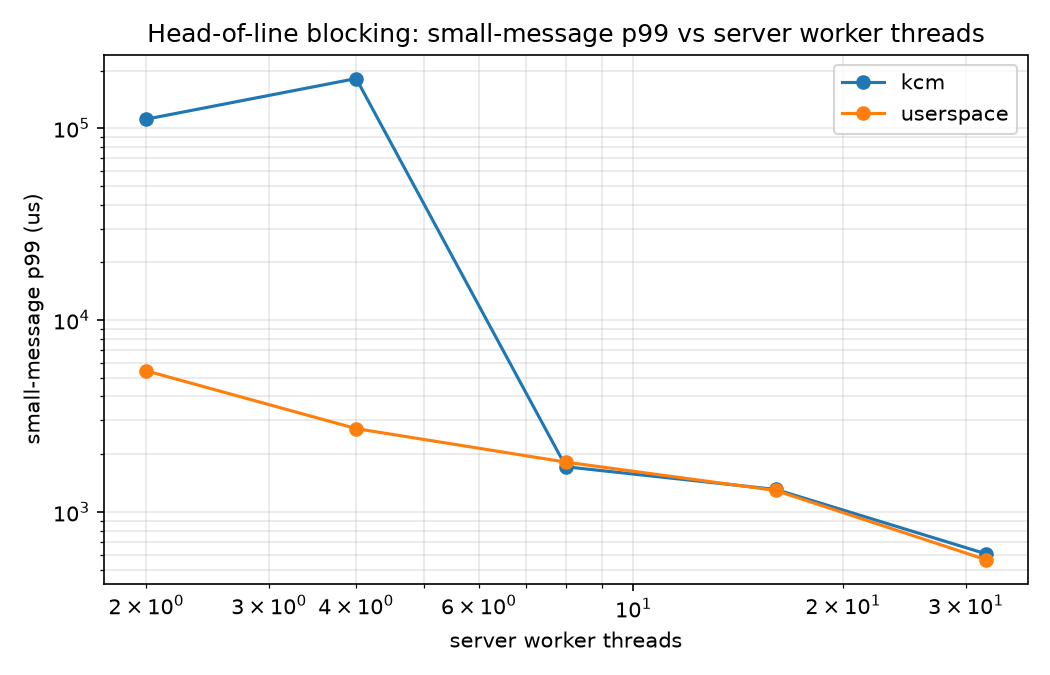
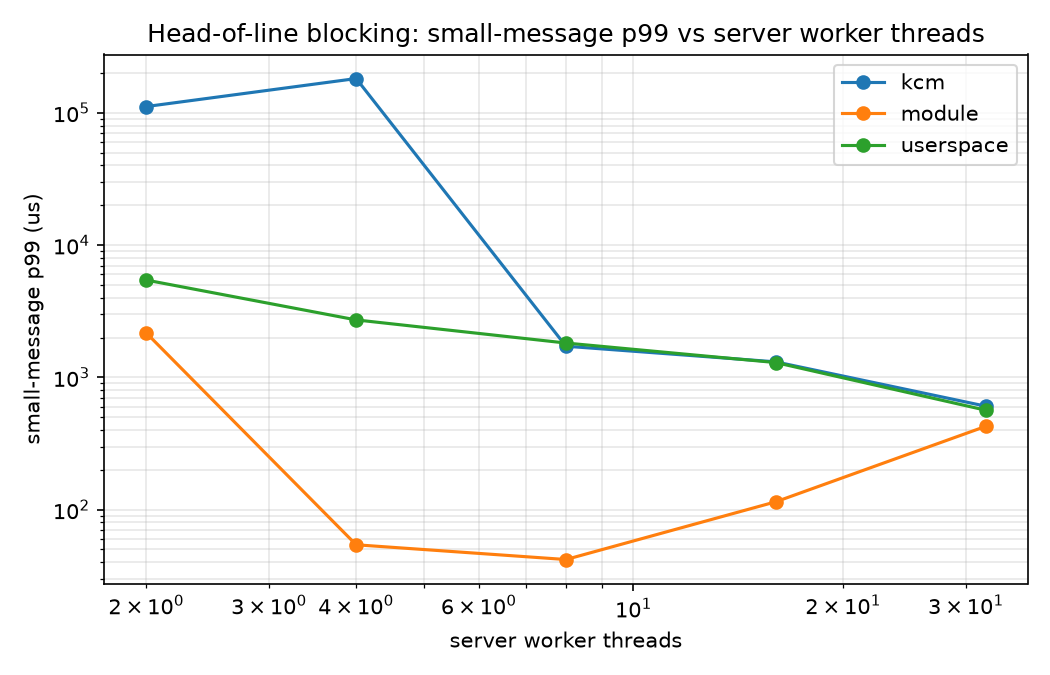
parse at the strparser message offset and reject desynced messages

diff --git a/module/kdispatch.c b/module/kdispatch.c
@@ -71,7 +71,7 @@ struct kd_dev {
 	struct list_head conns;
 	struct mutex attach_lock;   /* serialises attach/teardown */
 
-	u32 qlen, qmax, nconns, pauses, aborts;
+	u32 qlen, qmax, nconns, pauses, aborts, desync;
 	u64 msgs, bytes;
 	int opens;
 	bool draining;
@@ -85,15 +85,22 @@ static struct kd_dev kd;
  * Total message length lives in the first four bytes, big-endian. strparser
  * reads the return value as: >0 complete message length, 0 need more bytes,
  * <0 protocol error (which tears the connection down).
+ *
+ * Read at strp_msg(skb)->offset, not at zero. When several messages arrive
+ * coalesced -- which happens as soon as a backlog is buffered at attach time --
+ * strparser passes a head skb that still contains the preceding message, with
+ * this message starting at ->offset. Parsing at zero then decodes the previous
+ * header, and delivery (which does honour ->offset) disagrees with it.
  */
 static int kd_parse_msg(struct strparser *strp, struct sk_buff *skb)
 {
+	int offset = strp_msg(skb)->offset;
 	__be32 hdr;
 	u32 len;
 
-	if (skb->len < sizeof(hdr))
+	if (offset < 0 || skb->len < offset + (int)sizeof(hdr))
 		return 0;
-	if (skb_copy_bits(skb, 0, &hdr, sizeof(hdr)) < 0)
+	if (skb_copy_bits(skb, offset, &hdr, sizeof(hdr)) < 0)
 		return 0;
 
 	len = be32_to_cpu(hdr);
@@ -336,6 +343,33 @@ static ssize_t kd_read(struct file *file, char __user *ubuf, size_t count,
 	kd_maybe_unpause(dev);
 
 	stm = strp_msg(skb);
+
+	/* The four bytes we are about to deliver must be this message's own
+	 * length prefix. If they are not, the delivery offset and the offset
+	 * the parser read from have diverged, and userspace would decode a
+	 * header out of the middle of the stream.
+	 */
+	{
+		__be32 hdr;
+		u32 declared;
+
+		if (skb_copy_bits(skb, stm->offset, &hdr, sizeof(hdr)) < 0)
+			declared = 0;
+		else
+			declared = be32_to_cpu(hdr);
+
+		if (declared != (u32)stm->full_len) {
+			spin_lock_irqsave(&dev->lock, flags);
+			dev->desync++;
+			spin_unlock_irqrestore(&dev->lock, flags);
+			pr_warn_ratelimited(
+				"desync: prefix=%u full_len=%d offset=%d -- dropping\n",
+				declared, stm->full_len, stm->offset);
+			kfree_skb(skb);
+			return -EPROTO;
+		}
+	}
+
 	len = min_t(int, stm->full_len, (int)count);
 
 	err = import_ubuf(ITER_DEST, ubuf, len, &to);
@@ -375,6 +409,7 @@ static long kd_ioctl(struct file *file, unsigned int cmd, unsigned long arg)
 		st.conns = dev->nconns;
 		st.pauses = dev->pauses;
 		st.aborts = dev->aborts;
+		st.desync = dev->desync;
 		spin_unlock_irqrestore(&dev->lock, flags);
 		if (copy_to_user((void __user *)arg, &st, sizeof(st)))
 			return -EFAULT;
@@ -393,7 +428,22 @@ static long kd_ioctl(struct file *file, unsigned int cmd, unsigned long arg)
 static int kd_open(struct inode *inode, struct file *file)
 {
 	mutex_lock(&kd.attach_lock);
-	kd.opens++;
+	if (kd.opens++ == 0) {
+		/* First opener owns the device: start counters from zero so each
+		 * server run reports its own numbers rather than inheriting the
+		 * previous one's.
+		 */
+		unsigned long flags;
+
+		spin_lock_irqsave(&kd.lock, flags);
+		kd.msgs = 0;
+		kd.bytes = 0;
+		kd.qmax = 0;
+		kd.pauses = 0;
+		kd.aborts = 0;
+		kd.desync = 0;
+		spin_unlock_irqrestore(&kd.lock, flags);
+	}
 	kd.draining = false;
 	mutex_unlock(&kd.attach_lock);
 	return 0;

diff --git a/src/server_module.cpp b/src/server_module.cpp
@@ -95,6 +95,7 @@ void worker_loop(int devfd, WorkerStats* stats) {
         if (n == 0) break;                       // module draining
         if (n < 0) {
             if (errno == EINTR || errno == EAGAIN) continue;
+            if (errno == EPROTO) continue;   // module dropped a desynced message
             std::fprintf(stderr, "read: %s\n", std::strerror(errno));
             break;
         }
@@ -103,6 +104,13 @@ void worker_loop(int devfd, WorkerStats* stats) {
         MsgHeader h{};
         std::memcpy(&h, buf.get(), sizeof(h));
         stats->bytes_in += (std::uint64_t)n;
+
+        if (h.work_us > MAX_WORK_US || msg_len(h) != (std::uint32_t)n) {
+            std::fprintf(stderr,
+                "rejecting malformed message: len=%u read=%zd work_us=%u conn=%u\n",
+                msg_len(h), (ssize_t)n, h.work_us, h.conn_id);
+            continue;
+        }
 
         if (!(h.flags & FLAG_HELLO)) {
             busy_spin_us(h.work_us);
@@ -225,8 +233,8 @@ int main(int argc, char** argv) {
     kd_stats ks{};
     if (::ioctl(g_devfd, KD_STATS, &ks) == 0) {
         std::fprintf(stderr,
-            "[server_module] module: msgs=%llu qmax=%u pauses=%u aborts=%u conns=%u\n",
-            (unsigned long long)ks.msgs, ks.qmax, ks.pauses, ks.aborts, ks.conns);
+            "[server_module] module: msgs=%llu qmax=%u pauses=%u aborts=%u desync=%u conns=%u\n",
+            (unsigned long long)ks.msgs, ks.qmax, ks.pauses, ks.aborts, ks.desync, ks.conns);
     }
 
     for (auto& s : stats) s.conns = nattached / (std::uint64_t)std::max(1, nworkers);

diff --git a/include/proto.hpp b/include/proto.hpp
@@ -29,6 +29,10 @@ inline constexpr std::uint32_t MAX_CONNS = 4096;
 // connection, so a corrupt length prefix cannot make us allocate wildly.
 inline constexpr std::uint32_t MAX_MSG = 8u * 1024 * 1024;
 
+// Upper bound on simulated RPC work. A corrupted header must not be able to
+// park a worker for hours in the busy-spin.
+inline constexpr std::uint32_t MAX_WORK_US = 1'000'000;
+
 struct __attribute__((packed)) MsgHeader {
     std::uint32_t len;      // big-endian, TOTAL bytes including this header
     std::uint32_t req_id;   // unique per generator thread

diff --git a/include/kdispatch_uapi.h b/include/kdispatch_uapi.h
@@ -31,7 +31,7 @@ struct kd_stats {
 	__u32 conns;     /* attached transports */
 	__u32 pauses;    /* times backpressure paused a parser */
 	__u32 aborts;    /* parser aborts (protocol errors, resets) */
-	__u32 _pad;
+	__u32 desync;    /* messages whose length prefix disagreed with full_len */
 };
 
 #define KD_IOC_MAGIC 'K'

diff --git a/README.md b/README.md
@@ -16,71 +16,69 @@ the wire to a worker thread.
 | --- | --- | --- |
 | **A — userspace** | epoll server, per-connection reassembly, workers sharded by connection (what gRPC-style stacks do) | done |
 | **B — KCM** | Linux `AF_KCM` + an eBPF length-prefix parser; the kernel delivers whole messages, any worker can take any message | done |
-| **C — module** | custom kernel module on `strparser` with a single shared, work-conserving message queue | stretch |
+| **C — module** | custom kernel module on `strparser` with a single shared, work-conserving message queue | done |
 
 Scoped-down exploration of ideas from
 [*Rakaia: Scalable In-Kernel Scheduling for TCP-Based RPCs*](https://www.usenix.org/conference/osdi26/technical-sessions)
 (Yang, Prasopoulos, Bugnion — EPFL, OSDI '26). This is not a reimplementation:
 Rakaia does work-conserving scheduling in the TCP receive path with kTLS support
-and a patched gRPC. KDispatch reproduces the *problem* and measures how far the
-existing in-kernel message API gets you.
+and a patched gRPC. KDispatch reproduces the *problem*, measures how far the existing in-kernel
+message API gets you, and implements a minimal work-conserving dispatcher to
+close the gap.
 
 ## Results
 
 Workload: 128 B / 10 µs "small" RPCs, with 1% "large" ones carrying an identical
 128 B payload but 2 ms of service time. Equal payloads on purpose — that isolates
 **dispatch** from byte movement, so what is measured is scheduling, not copying.
-32 connections, 30k msg/s offered, 5 s runs, median of 2 repeats.
+32 connections, 30k msg/s offered, 5 s runs, median of 3 repeats. Every run
+reconciles exactly (`sent == recvd`), with no parser aborts or desyncs.
 
 ![small-message p99 vs worker threads](docs/p99_small_by_workers.png)
 
-| workers | A p99 | B p99 | B/A | A p99.9 | B p99.9 | B/A |
-| --- | --- | --- | --- | --- | --- | --- |
-| 2 | 5.4 ms | 111.6 ms | 20.5× | 8.5 ms | 150.6 ms | 17.7× |
-| 4 | 2.7 ms | 181.6 ms | 66.8× | 4.6 ms | 257.8 ms | 55.8× |
-| 8 | 1.8 ms | 1.7 ms | 0.95× | 3.3 ms | 2.8 ms | 0.82× |
-| 16 | 1.3 ms | 1.3 ms | 1.01× | 2.0 ms | 1.7 ms | 0.85× |
-| 32 | 0.57 ms | 0.61 ms | 1.07× | 1.5 ms | 1.2 ms | 0.83× |
+Small-message p99, in µs:
 
-### Moving framing into the kernel does not fix head-of-line blocking
+| workers | A userspace | B KCM | **C module** | **A/C** | **B/C** |
+| --- | --- | --- | --- | --- | --- |
+| 2 | 5440 | 111608 | 2163 | 2.5× | 51.6× |
+| 4 | 2720 | 181633 | **54** | **50.1×** | 3347× |
+| 8 | 1819 | 1720 | **42** | **43.3×** | 41.0× |
+| 16 | 1294 | 1311 | **115** | 11.3× | 11.4× |
+| 32 | 565 | 606 | 426 | 1.3× | 1.4× |
 
-This is the headline, and it is a negative result for KCM. Once there are enough
-worker threads, arm B is **indistinguishable from userspace reassembly** on p99
-(0.95×–1.07×) and only marginally better on p99.9 (~0.85×). Small messages still
-wait roughly one large-message service time behind large ones.
+### A shared queue removes head-of-line blocking; in-kernel framing alone does not
 
-Framing is not the bottleneck. KCM removes the reassembly buffers, the partial
-reads, and the per-connection userspace state — and the tail barely moves. What
-governs the tail is the *dispatch policy*, which KCM does not change.
+The headline: **arm A needs 32 worker threads to reach 565 µs p99. Arm C reaches
+54 µs with 4** — an order of magnitude better latency on an eighth of the
+threads, and **50× at equal thread count**.
 
-That is precisely the gap Rakaia targets: the paper reports up to **5× higher
-throughput-under-SLO than KCM**, and this measurement is an independent
-reproduction of why that headroom exists. It is also the argument for arm C —
-an in-kernel message API is necessary but not sufficient; the scheduling has to
-be work-conserving.
+The three arms differ only in how a completed message reaches a worker:
 
-### KCM collapses when workers are scarce
+- **A** binds a worker to a shard of connections. A worker running a slow RPC
+  cannot serve a fast message waiting on another connection in its shard.
+- **B** moves parsing into the kernel but reserves a KCM socket per connection
+  while a message is outstanding, so the same coupling survives. Measured: KCM
+  tracks the userspace baseline within 5% once workers are plentiful, and
+  collapses when they are scarce.
+- **C** binds nothing. Every completed message from every connection lands on one
+  queue and any idle worker takes the head.
 
-At 2 and 4 workers arm B is catastrophically worse — 20× and 67× the baseline
-tail. A KCM socket is *reserved* to a connection while a message is outstanding,
-so a worker busy running an RPC keeps its clone unavailable; with few clones,
-`reserve_rx_kcm` finds no waiting socket, strparser pauses the transport, and the
-backlog runs away. Arm A degrades gracefully over the same range.
+So framing is not what governs the tail — **dispatch policy is**. That is exactly
+the gap Rakaia identifies when it reports up to 5× higher throughput-under-SLO
+than KCM, reproduced here from scratch.
 
-Two honest caveats on this row:
+### Arm C is fastest in the middle, and that is not a bug
 
-- **It is bimodal.** Ad-hoc 4-worker runs during development produced ~2.5 ms,
-  not 181 ms. Some runs enter the pathological state and some do not; the
-  trigger is not yet identified.
-- **Messages go missing.** At 2 and 4 workers, `recvd` falls short of `sent` by
-  0.1–0.4% (414 and 1242 of ~300k). Every other configuration reconciles
-  exactly. Unexplained, and it means those two rows should be read as "KCM
-  misbehaves here", not as a trustworthy latency number.
+Arm C's curve is U-shaped: best at 8 workers (42 µs), worse at 32 (426 µs). One
+shared queue means one contention point — past the number of workers needed to
+keep the queue drained, extra threads add lock traffic and scheduler wakeups
+without adding useful concurrency. Queue depth confirms it: the high-water mark
+is 4–9 messages at 8+ workers versus ~130 at 2 workers, so by 8 workers the queue
+is already empty most of the time and there is nothing left for more threads to
+do. Rakaia's per-core scheduling is the answer to this; a single global queue is
+not meant to scale to arbitrary worker counts.
 
-The reservation mechanism above is a **hypothesis** consistent with the data, not
-something this repo has proven. Confirming it needs tracing inside `kcm_rcv_strparser`.
-
-### Two undocumented buffer ceilings
+### Two undocumented buffer ceilings in KCM
 
 Getting arm B to run at all meant discovering that a message must fit in *two*
 independent receive buffers:
@@ -90,12 +88,28 @@ independent receive buffers:
    With the stock `net.ipv4.tcp_rmem` default of 131072, every message above
    ~128 KB kills its connection.
 2. **The KCM socket's own `sk_rcvbuf`.** Completed messages are queued against
-   it. If a message does not fit, delivery **wedges silently** — no error
-   counter anywhere in `/proc/net/kcm_stats` increments, the sender simply
-   blocks forever in `write()`.
+   it. If a message does not fit, delivery **wedges silently** — no counter in
+   `/proc/net/kcm_stats` increments, and the sender simply blocks forever in
+   `write()`.
 
-The second cost most of a debugging session. Both servers now size both buffers
-and refuse to start a run that cannot complete.
+Both servers now size both buffers and refuse to start a run that cannot complete.
+
+### A parser bug worth recording
+
+Arm C initially failed one run in ten: workers pinned at 99.98% CPU having handled
+three messages each. They were spinning on a garbage `work_us` decoded from a
+misaligned header.
+
+`kd_parse_msg` read the length prefix at offset 0, but `strparser` passes a head
+skb that may still contain the *preceding* message, with this one starting at
+`strp_msg(skb)->offset`. Delivery honoured that offset; parsing did not. When
+messages arrived coalesced — reliably at attach time, when a backlog is already
+buffered — the parser decoded the previous message's header.
+
+The module now parses at `->offset`, and carries a permanent invariant check: the
+length prefix at the delivery offset must equal `full_len`, or the message is
+dropped and counted in `desync` rather than handed to userspace. 15/15 runs
+report `desync=0`.
 
 ### Arm A, for reference
 
@@ -119,8 +133,11 @@ include/proto.hpp   wire format (length-prefixed, BPF-parseable header)
 include/hist.hpp    log-bucketed latency histogram, ~3% relative precision
 src/server_userspace.cpp   arm A
 src/loadgen.cpp            open-loop generator + reply reader
-bpf/                       KCM stream parser (arm B)
-module/                    strparser dispatcher (arm C)
+src/server_kcm.cpp         arm B
+src/server_module.cpp      arm C
+bpf/kcm_parser.bpf.c       KCM stream parser, reference form
+module/kdispatch.c         work-conserving in-kernel dispatcher
+include/kdispatch_uapi.h   device ABI shared by module and server
 scripts/run_sweep.sh       connection-count sweep
 scripts/plot.py            graphs from results/*.json
 ```
@@ -139,10 +156,20 @@ sudo scripts/setcap.sh
 ./build/server_kcm --check-bpf        # should print "loaded OK"
 ```
 
-Side-by-side comparison at one operating point:
+Arm C needs the kernel module loaded (rebuilds and `insmod`s; creates
+`/dev/kdispatch` mode 0666, so the server itself runs unprivileged):
+
+```bash
+sudo scripts/load_module.sh
+sudo scripts/load_module.sh unload   # when done
+```
+
+Side-by-side comparison at one operating point, and the full sweep:
 
 ```bash
 scripts/smoke_kcm.sh
+scripts/run_sweep.sh module workers
+python3 scripts/plot.py results/ -o figs/
 ```
 
 Full sweep and graphs:
